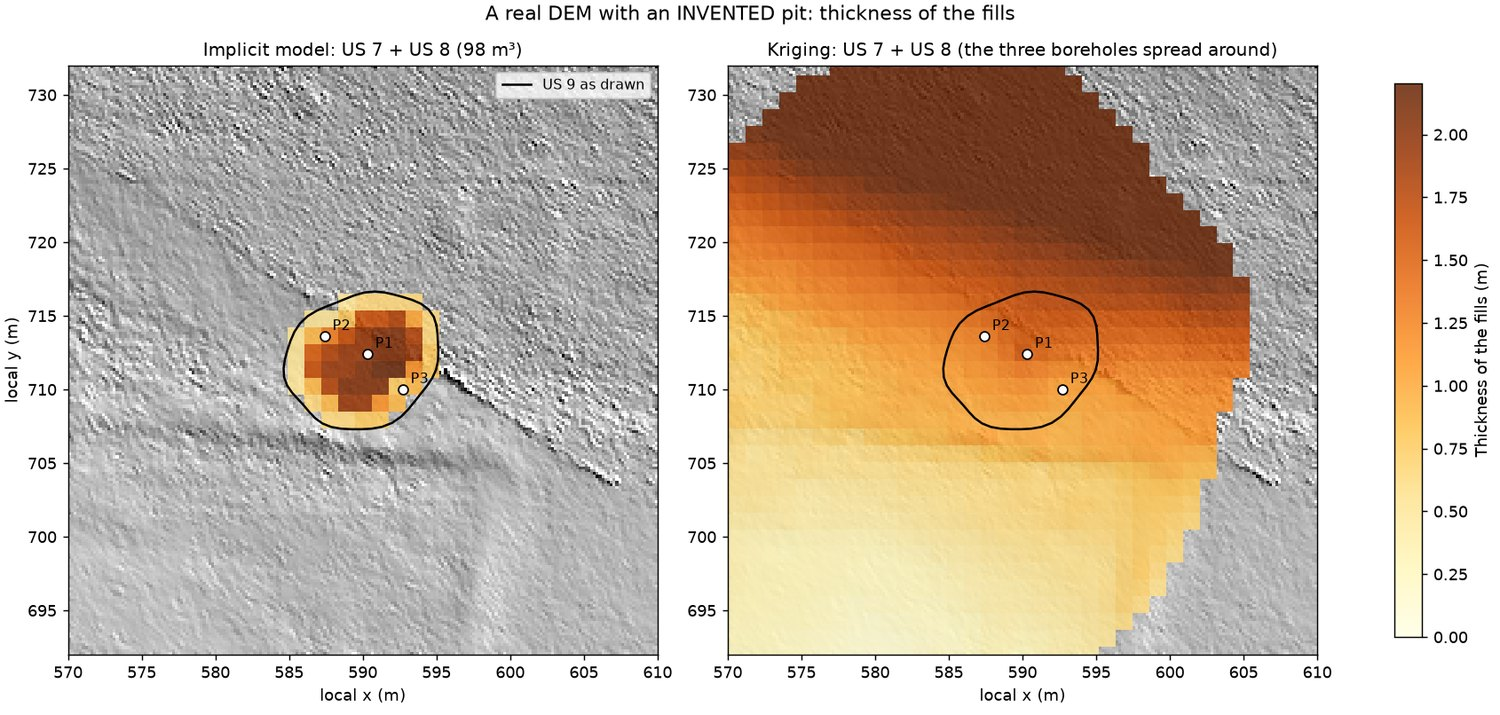
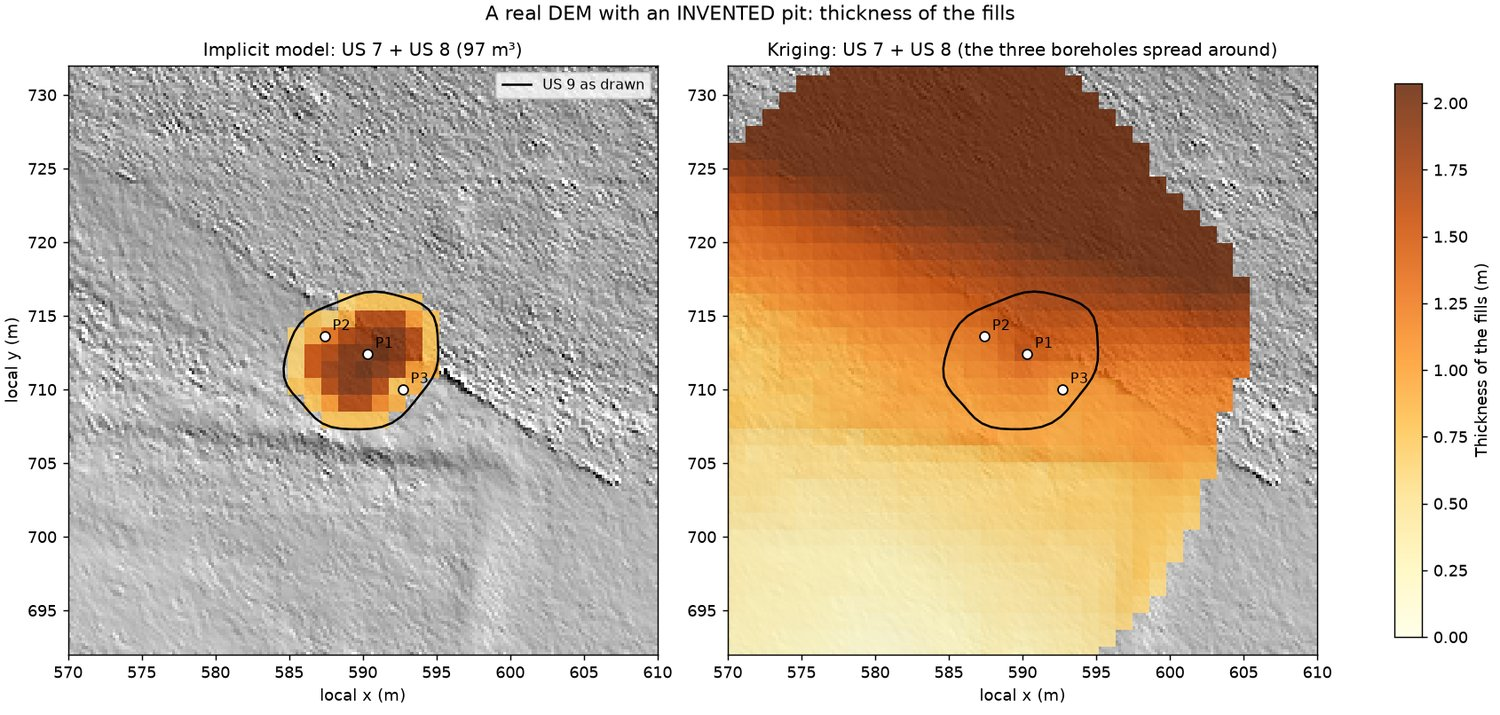
docs(plugins): Geoarchaeology 0.2.0 - a floor hangs from where the cut opens, rows by the edge, fills as a stack, the model against its logs, new warnings, numbers and figures of the new run

diff --git a/docs/plugins/geoarchaeology.it.md b/docs/plugins/geoarchaeology.it.md
@@ -701,7 +701,7 @@ richiesta, accanto al kriging, che resta il metodo predefinito. È una novità d
 | Il volume di un deposito semplice da riportare | **kriging** |
 
 Dopo ogni costruzione gli errori leave-one-out dei due metodi sono mostrati affiancati. Questi vengono dalla dimostrazione qui sotto: 21
-sondaggi su Tell Sultan, 18 senza la fossa. Il kriging lascia fuori un sondaggio alla volta e conta i sondaggi dove l'unità manca;
+sondaggi simulati sul DEM reale di Tell Sultan, 18 senza la fossa inventata. Il kriging lascia fuori un sondaggio alla volta e conta i sondaggi dove l'unità manca;
 il modello implicito lascia fuori 12 gruppi di sondaggi e conta quelli che vedono il contatto.
 
 | Contatto | Sondaggi che lo vedono | Senza fossa: kriging / implicito | Con la fossa: kriging / implicito |
@@ -760,12 +760,19 @@ per quota. *Per unità* lo cambia.
 Un taglio non ha materiale: nei log si vede il riempimento. Il taglio quindi non è uno strato né un campo: è un documento di scavo.
 
 * **La pianta** è la US disegnata per il taglio, o per i riempimenti. Senza disegno viene stimata, le celle più vicine ai sondaggi dentro che
-  a quelli fuori, con un avviso; nella dimostrazione ha dato 38-68 m³ per un riempimento di 76 m³.
-* **Il fondo** è `terreno - s(x, y) P(t)`: `t` la distanza dal bordo divisa per la mezza larghezza locale, `P` la forma scelta, `s` le
-  profondità misurate divise per P e distribuite sulla pianta. Passa per ogni base misurata. Fra i sondaggi è un'ipotesi.
+  a quelli fuori, con un avviso; nella dimostrazione ha dato 53-92 m³ per un riempimento di 76 m³.
+* **Il fondo** parte da dove il taglio si apre: `apertura - s(x, y) P(t)`. L'apertura è il terreno o, sotto una copertura, il tetto del riempimento più recente,
+  così una fossa sigillata conserva tutta la sua pianta. `t` è la distanza dal bordo divisa per la mezza larghezza locale, `P` la forma scelta, `s` le
+  profondità misurate divise per P e distribuite sulla pianta, con ogni sondaggio che pesa `P²`. Nessun fondo scende oltre la misura più profonda del suo taglio quando un
+  sondaggio sta lontano dal bordo. Fra i sondaggi è un'ipotesi.
+* **Vicino al bordo** (`t` sotto 0,25) una misura dice quanto è ripida la parete, non quanto scende il centro: resta fuori da `s` quando un'altra sta più
+  all'interno. Se è più profonda della forma, il fondo viene portato fino a lei intorno a quel sondaggio; se è meno profonda non viene usata. Così il fondo
+  passa per ogni base misurata, tranne quelle accanto al bordo meno profonde della forma (`base_near_edge`).
 * **I riempimenti** hanno i tetti come profondità sotto il terreno, distribuite dai sondaggi che li hanno visti: seguono il terreno salvo
   che i sondaggi dicano altro. Un riempimento più profondo resta sotto quello sopra. Uno strato può coprire la fossa, come l'humus
-  nella dimostrazione.
+  nella dimostrazione. **I riempimenti sono una pila, uno sull'altro**: riempimenti affiancati, linee di scarico, una lente vista in un sondaggio non sono modellati. Il totale del
+  taglio resta giusto, il volume di ciascun riempimento no, e `fill_thinned` lo dice quando un sondaggio ha registrato il doppio di quello che ha il modello.
+* **Le fosse che tagliano fosse** si leggono dai log: ogni riempimento resta con il suo taglio, e la fossa che sta più in alto in un sondaggio che le attraversa entrambe è la più recente.
 * **Un sottosquadro** (una fossa a campana, un fossato con un fianco aggettante) ha bisogno di misure sulla parete: righe di tipo `wall` nel file
   dei contatti. Solo un taglio così usa un campo di LoopStructural, e pochi punti lo cancellano: è stata provata solo una fossa a campana
   con punti di parete tutto intorno.
@@ -779,22 +786,22 @@ Un taglio non ha materiale: nei log si vede il riempimento. Il taglio quindi non
 ### Il volume di un taglio è un intervallo { #implicit-range }
 
 Pochi sondaggi non dicono la forma di un fondo. Per questo il plugin calcola il riempimento per tutte e tre le forme, e la riga del taglio in
-`volumi.csv`, nel pannello e nel testo dà l'intervallo; la forma scelta dà solo il valore in mezzo e il solido. **L'intervallo è del
-riempimento**: dal fondo al tetto del riempimento più recente, senza quello che lo copre. Il taglio vuoto, dal terreno, è nel registro come `cut_range`.
+`volumi.csv`, nel pannello e nel testo dà l'intervallo; la forma scelta dà il solido e quale valore dell'intervallo ha il modello, che può essere uno dei due estremi. **L'intervallo è del
+riempimento**: dal fondo al tetto del riempimento più recente, senza quello che lo copre. In `volumi.csv` il `volume_m3` della riga del taglio è vuoto, perché il volume sta nelle righe dei suoi riempimenti: la somma della colonna conta ogni fossa una volta.
 
 | Fossa inventata | Fondo piatto | A conca (scelta) | A V | Vero |
 |---|---:|---:|---:|---:|
-| Riempimento | 103,7 m³ | **98,3 m³** | 80,7 m³ | 76,4 m³ |
-| Taglio, dal terreno | 130,0 m³ | 124,2 m³ | 106,9 m³ | 103,8 m³ |
+| Riempimento | 118,2 m³ | **97,2 m³** | 79,4 m³ | 76,4 m³ |
 
-Il volume vero qui si conosce perché la fossa è inventata, con un fondo fra la V e la conca del plugin. Sta il 5 % *sotto* l'intervallo, e la conca è
-il 29 % di troppo: tre sondaggi quasi in fila dicono poco. L'intervallo dice quanto conta la forma; non contiene sempre il vero.
+Il volume vero qui si conosce perché la fossa è inventata, con un fondo fra la V e la conca del plugin. Sta il 4 % *sotto* l'intervallo, e la conca è
+il 27 % di troppo: tre sondaggi quasi in fila dicono poco. L'intervallo dice quanto conta la forma; non contiene sempre il vero.
 Lo restringono più sondaggi attraverso la fossa, con almeno uno vicino al centro.
 
 ### Che cosa vuol dire il volume di un riempimento { #implicit-fill }
 
 È lo spazio fra il fondo ipotizzato e il tetto del riempimento, dentro la pianta disegnata, nelle celle della griglia. Qui la pianta ha 58 celle da
-1,14 m, 75,5 m² contro 76,2 m² disegnati. Non è una quantità misurata di materiale: va dato come intervallo, con il numero dei sondaggi. Un
+1,14 m, 75,5 m² contro 76,2 m² disegnati. Non è una quantità misurata di materiale: va dato come intervallo, con il numero dei sondaggi. La pianta
+vale anche sotto una copertura: una fossa che si apre 1,5 m più in basso conserva tutta la sua pianta. Un
 fondo misurato solo accanto al bordo non dice nulla del centro (`floor_unmeasured`), e allora il volume è un'ipotesi, qualunque sia l'intervallo.
 
 <figure markdown="span">
@@ -813,19 +820,33 @@ modello. Nella dimostrazione US 3, vista in 5 sondaggi su 21, copre 10.368 m² c
 
 `volumi.csv` ha `kriging_m3` e `same_cells_m3`: il volume di ciascun metodo sulle celle che hanno entrambi. Il kriging si ferma al margine intorno ai
 sondaggi, il modello implicito copre ogni cella con il DEM sulla sua griglia, quindi `volume_m3` copre di più; confronta `same_cells_m3` con `kriging_m3`, come fa il
-riepilogo. Sui 73.834 m² della dimostrazione:
+riepilogo. Sui 73.834 m² della dimostrazione (sondaggi simulati, fossa inventata):
 
 | Unità | Kriging | Implicito, stesse celle | Implicito, tutto (`volume_m3`) |
 |---|---:|---:|---:|
 | US 1 | 22.974 m³ | 21.981 m³ | 28.321 m³ |
-| US 2 | 75.705 m³ | 93.071 m³ | 117.297 m³ |
+| US 2 | 75.705 m³ | 93.068 m³ | 117.294 m³ |
 | US 3, rara | 25.341 m³ | 20.466 m³ | 20.466 m³ |
 | US 4 | 181.703 m³ | 167.112 m³ | 167.133 m³ |
-| US 5, fino alla base del modello | 263.288 m³ | 268.203 m³ | 371.841 m³ |
+| US 5, fino alla base del modello | 263.288 m³ | 268.208 m³ | 371.845 m³ |
 
-Tutto il deposito sopra il naturale differisce dell'1 % (305.723 contro 302.630 m³), le singole unità fino al 23 %: dove US 3 non c'è, il suo spazio passa a US 2, che è il
+Tutto il deposito sopra il naturale differisce dell'1 % (305.723 contro 302.627 m³), le singole unità fino al 23 %: dove US 3 non c'è, il suo spazio passa a US 2, che è il
 23 % sopra il kriging, US 3 il 19 % sotto, US 4 l'8 % sotto. Fidati del volume del deposito prima che di quelli delle
-sue unità, e dell'errore leave-one-out per dov'è un contatto dove esiste, non per fin dove arriva l'unità.
+sue unità.
+
+**Leggi insieme i due numeri.** Dopo ogni costruzione il riepilogo dà il leave-one-out di un contatto e, per ogni unità, il modello contro i log ai suoi stessi sondaggi
+(`rmse`, massimo). Rispondono a due domande: quanto bene i dati dicono un contatto dove manca un sondaggio, e se il modello tiene i sondaggi che ha. Un leave-one-out basso da solo
+nasconde un modello che si è staccato dai log: in una prova con una lente spessa 1,2 m in 8 sondaggi su 25 il modello la aveva in media a 0,09 m, e il
+leave-one-out di quell'unità era 0,00 m. Nella dimostrazione:
+
+| Contatto | Sondaggi | Modello contro log: rmse / massimo |
+|---|---:|---:|
+| US 1 | 21 | 0,08 / 0,19 m |
+| US 7, US 8 | 3 | 0,01 / 0,02 m |
+| US 2 | 16 | 0,07 / 0,18 m |
+| US 3 | 5 | 0,17 / 0,34 m |
+| US 4 | 12 | **1,35 / 4,36 m** |
+| US 5 | 16 | 0,02 / 0,07 m |
 
 <figure markdown="span">
   ![I solidi attorno alla fossa, tagliati lungo la sezione](../img/plugins/geoarchaeology/implicit-solids.jpg)
@@ -845,7 +866,8 @@ US 3;588,20;741,50;286,15;
 US 9;591,00;713,00;285,10;parete
 ```
 
-Il tipo è vuoto, oppure `wall` (`parete`, `muro`, `side`) per un punto della parete di un taglio. Un contatto di un taglio è un punto del suo fondo.
+Il tipo è vuoto, oppure `wall` (`parete`, `muro`, `side`) per un punto della parete di un taglio. Un contatto di un taglio è un punto del suo fondo, e così una quota con la sua US. Una quota presa sul bordo di un taglio
+non è un punto del suo fondo: resta fuori, e `base_near_edge` dice quante sono.
 
 **Giaciture**: un'inclinazione misurata.
 
@@ -869,7 +891,11 @@ lo hanno spostato solo di una frazione. Per cambiare la forma di un contatto ser
 |---|---|---|
 | *nessuno ha disegnato il contorno* | la pianta è stimata, il volume può essere sopra o sotto | disegna la US del taglio |
 | *tutti i sondaggi sono vicino al bordo* (`floor_unmeasured`) | la profondità del fondo non è stata misurata | un sondaggio vicino al centro; fino ad allora il volume è un'ipotesi |
-| *misure del fondo vicino al bordo non vengono raggiunte* | una misura profonda sul bordo scaverebbe troppo al centro | controlla quel sondaggio e il contorno |
+| *misure del fondo vicino al bordo non sono usate* (`base_near_edge`) | il bordo non dice quanto scende il centro; una quota sul bordo resta fuori | nulla per una quota sul bordo; per un sondaggio, controlla lui e il contorno |
+| *il fondo arriva a ... m, la misura più profonda è ... m* (`floor_past_measure`) | con tutte le misure sul bordo nulla ferma il fondo | un sondaggio vicino al centro |
+| *parti separate del contorno non hanno alcuna misura del fondo* (`plan_part_unmeasured`) | la loro profondità viene da sondaggi lontani | un sondaggio in ogni parte, o un taglio per ciascuna |
+| *nel sondaggio ... i log danno ... m, il modello ... m* (`fill_thinned`) | i riempimenti sono una pila, e questo ha perso il suo posto | leggi i volumi dei riempimenti come uno solo; dai i riempimenti affiancati come una sola unità |
+| *il modello passa lontano dai log dei suoi stessi sondaggi* (`logs_missed`) | rmse sopra 0,25 m o due voxel; il leave-one-out da solo non lo mostra | una serie per profondità o per quota per quell'unità, e non citare il suo volume da solo |
 | *una misura del fondo ... è fuori dal contorno* | vale come se fosse sul bordo | controlla la posizione del sondaggio, o il disegno |
 | *il contorno è largo solo ... m* | la cella è troppo grande per quella forma | costruisci con la cella indicata |
 | *il contorno disegnato misura ..., sulla griglia ne restano ...* | esce dalla griglia, o la cella è grande | una cella più piccola, o superfici con un margine più grande |
@@ -885,11 +911,13 @@ lo hanno spostato solo di una frazione. Per cambiare la forma di un contatto ser
 ### Limiti { #implicit-limits }
 
 * **Le strozzature non vengono segnalate.** Una strozzatura sotto il 5 % della pianta non dà avviso (1,2 m in un fossato di 6 m con celle da 1 m): guarda la pianta.
-* **Un contatto non viene rispettato esattamente**, come sopra: un campo liscio ci si appoggia.
+* **Un contatto non viene rispettato esattamente**, come sopra: un campo liscio ci si appoggia. Nella dimostrazione il tetto di US 4 resta a 1,35 m dai suoi log (rmse), 4,36 m nel caso peggiore.
+* **I riempimenti sono una pila**: riempimenti affiancati e linee di scarico non sono modellati, solo la loro somma.
 * **Un bordo stimato è grossolano**, nei due sensi: +125 % e -54 % nelle prove.
 * **Un fondo misurato solo al bordo** (`floor_unmeasured`) non è una misura del centro: un sondaggio sul bordo di una conca ha dato meno di un terzo del volume.
 * **Un'unità rara finisce con un bordo verticale** a metà fra i sondaggi, come nel kriging, e gli strati intorno si dividono il suo spazio in modo diseguale, come sopra.
-* **La forma del fondo è ipotizzata.** Un fondo piatto viene arrotondato nel primo quarto della mezza larghezza: una parete davvero verticale sta fuori dall'intervallo.
+* **La forma del fondo è ipotizzata.** Un fondo piatto viene arrotondato nel primo quarto della mezza larghezza: una parete davvero verticale sta fuori dall'intervallo, il 16 % sopra il
+  fondo piatto in una fossa di raggio 8. Un sondaggio al centro di una fossa così, con la conca scelta, dà il 40 % meno del vero: nulla dice che la parete è ripida.
 * **La griglia**: al massimo 120.000 celle e 200 livelli di base. Una fossa deve essere larga almeno diverse celle; qui 9 celle, voxel da 0,13 m.
 * **Non fatto**: faglie, pieghe, intrusioni, modifica a mano del modello, insiemi di modelli.
 

diff --git a/docs/plugins/geoarchaeology.md b/docs/plugins/geoarchaeology.md
@@ -693,8 +693,8 @@ the kriging, which stays the default. It is new in version 0.2.0.
 | A dip measured on a section, contacts seen on a wall | **implicit**: kriging cannot use them |
 | A volume of a plain deposit to report | **kriging** |
 
-The leave-one-out errors of both are shown side by side after each build. These are from the demonstration below: 21 boreholes on
-Tell Sultan, 18 of them without a pit. Kriging leaves out one borehole at a time and counts the boreholes where the
+The leave-one-out errors of both are shown side by side after each build. These are from the demonstration below: 21 simulated boreholes on
+Tell Sultan's real DEM, 18 of them without the invented pit. Kriging leaves out one borehole at a time and counts the boreholes where the
 unit is missing; the implicit model leaves out 12 groups of boreholes and counts those that see the contact.
 
 | Contact | Boreholes that see it | Without the pit: kriging / implicit | With the pit: kriging / implicit |
@@ -753,12 +753,19 @@ elevation. *By unit* changes it.
 A cut has no material: the logs show its fill. So the cut is not a layer, nor a field: it is an excavation record.
 
 * **The plan** is the US drawn for the cut, or for its fills. Without a drawing it is estimated, the cells nearer to the boreholes
-  inside than to those outside, with a warning; in the demonstration this gave 38-68 m³ for a fill of 76 m³.
-* **The floor** is `ground - s(x, y) P(t)`: `t` the distance from the edge over the local half width, `P` the shape chosen, `s` the
-  measured depths divided by P and spread over the plan. It passes through every base measured. Between the boreholes it is an assumption.
+  inside than to those outside, with a warning; in the demonstration this gave 53-92 m³ for a fill of 76 m³.
+* **The floor** hangs from where the cut opens: `opening - s(x, y) P(t)`. The opening is the ground, or under a cover the top of the youngest fill,
+  so a sealed pit keeps its whole plan. `t` is the distance from the edge over the local half width, `P` the shape chosen, `s` the
+  measured depths divided by P and spread over the plan, a borehole weighing `P²`. No floor goes deeper than the deepest measure of its cut when a
+  borehole stands away from the edge. Between the boreholes it is an assumption.
+* **Near the edge** (`t` under 0.25) a measure tells how steep the wall is, not how deep the middle goes: it is left out of `s` when another one stands
+  further in. If it is deeper than the shape, the floor is brought down to it around that borehole; if it is shallower it is not used. So the floor
+  passes through every base measured, except those shallower than the shape next to the edge (`base_near_edge`).
 * **The fills** have tops as depths under the ground, spread from the boreholes that saw them: they follow the ground unless
   the boreholes say otherwise. A deeper fill stays under the one above it. A layer can cover the pit, as the topsoil does
-  in the demonstration.
+  in the demonstration. **Fills are a stack, one over the other**: fills side by side, tip lines, a lens seen in one borehole are not modelled. The total of the
+  cut stays right, the volume of each fill does not, and `fill_thinned` says so when a borehole logged twice what the model has.
+* **Pits that cut pits** are read from the logs: each fill stays with its cut, and the pit seen higher in a borehole through both is the younger.
 * **An undercut** (a bottle pit, a ditch with an overhanging side) needs measures on the wall: rows of the kind `wall` in the contacts file.
   Only such a cut uses a field of LoopStructural, and few points smooth it away: only a bottle pit with wall points all round has been tried.
 
@@ -771,22 +778,22 @@ A cut has no material: the logs show its fill. So the cut is not a layer, nor a 
 ### The volume of a cut is a range { #implicit-range }
 
 A few boreholes cannot tell the shape of a floor. So the plugin computes the fill for all three shapes, and the row of the cut in
-`volumi.csv`, the pane and the text gives the range; the chosen shape only sets the value in the middle and the solid. **The range is of
-the fill**: from the floor up to the top of the youngest fill, without what covers it. The empty cut, from the ground, is in the registry as `cut_range`.
+`volumi.csv`, the pane and the text gives the range; the chosen shape sets the solid and which value of the range the model has, which can be one of its ends. **The range is of
+the fill**: from the floor up to the top of the youngest fill, without what covers it. In `volumi.csv` the `volume_m3` of the row of the cut is empty, the volume being in the rows of its fills: a sum of the column counts each pit once.
 
 | Invented pit | Flat floor | Bowl (chosen) | V | True |
 |---|---:|---:|---:|---:|
-| Fill | 103.7 m³ | **98.3 m³** | 80.7 m³ | 76.4 m³ |
-| Cut, from the ground | 130.0 m³ | 124.2 m³ | 106.9 m³ | 103.8 m³ |
+| Fill | 118.2 m³ | **97.2 m³** | 79.4 m³ | 76.4 m³ |
 
-The true volume is known here because the pit is invented, with a floor between the V and the bowl of the plugin. It lies 5 % *below*
-the range, and the bowl is 29 % too much: three boreholes nearly in a line say little. The range tells how much the
+The true volume is known here because the pit is invented, with a floor between the V and the bowl of the plugin. It lies 4 % *below*
+the range, and the bowl is 27 % too much: three boreholes nearly in a line say little. The range tells how much the
 shape matters; it does not always hold the truth. More boreholes across the pit, and at least one near the middle, are what narrows it.
 
 ### What a fill volume means { #implicit-fill }
 
 It is the space between the assumed floor and the top of the fill, within the drawn plan, in the cells of the grid. Here the plan has 58 cells of
-1.14 m, 75.5 m² against 76.2 m² drawn. It is not a measured amount of material: give it as a range, with the number of boreholes. A floor
+1.14 m, 75.5 m² against 76.2 m² drawn. It is not a measured amount of material: give it as a range, with the number of boreholes. The plan
+holds the fill under a cover as well: a pit opening 1.5 m down keeps all of its plan. A floor
 measured only beside the edge says nothing of the middle (`floor_unmeasured`), and then the volume is a guess whatever the range says.
 
 <figure markdown="span">
@@ -805,19 +812,32 @@ working of the model. In the demonstration US 3, seen in 5 boreholes of 21, cove
 
 `volumi.csv` has `kriging_m3` and `same_cells_m3`: the volume of each method on the cells both have. The kriging stops at the margin around the
 boreholes, the implicit model covers every cell with a DEM on its grid, so `volume_m3` covers more; compare `same_cells_m3` with `kriging_m3`, as the summary does. On the
-73,834 m² of the demonstration:
+73,834 m² of the demonstration (simulated boreholes, an invented pit):
 
 | Unit | Kriging | Implicit, same cells | Implicit, all of it (`volume_m3`) |
 |---|---:|---:|---:|
 | US 1 | 22,974 m³ | 21,981 m³ | 28,321 m³ |
-| US 2 | 75,705 m³ | 93,071 m³ | 117,297 m³ |
+| US 2 | 75,705 m³ | 93,068 m³ | 117,294 m³ |
 | US 3, rare | 25,341 m³ | 20,466 m³ | 20,466 m³ |
 | US 4 | 181,703 m³ | 167,112 m³ | 167,133 m³ |
-| US 5, down to the base of the model | 263,288 m³ | 268,203 m³ | 371,841 m³ |
+| US 5, down to the base of the model | 263,288 m³ | 268,208 m³ | 371,845 m³ |
 
-The whole deposit above the natural differs by 1 % (305,723 against 302,630 m³), single units by up to 23 %: where US 3 is not, US 2 takes its space, and it is 23 % over the
-kriging, US 3 19 % under, US 4 8 % under. Trust the volume of the deposit before those of its units, and a leave-one-out error
-for where a contact is where it exists, not for how far the unit goes.
+The whole deposit above the natural differs by 1 % (305,723 against 302,627 m³), single units by up to 23 %: where US 3 is not, US 2 takes its space, and it is 23 % over the
+kriging, US 3 19 % under, US 4 8 % under. Trust the volume of the deposit before those of its units.
+
+**Trust the two figures together.** After each build the summary gives the leave-one-out of a contact and, for every unit, the model against the logs at its own boreholes
+(`rmse`, maximum). They answer two questions: how well the data tell a contact where a borehole is missing, and whether the model keeps the boreholes it has. A low leave-one-out alone
+hides a model that left its logs: in a test with a lens 1.2 m thick in 8 boreholes of 25 the model had it at 0.09 m on average, and the
+leave-one-out of that unit was 0.00 m. In the demonstration:
+
+| Contact | Boreholes | Model against logs: rmse / maximum |
+|---|---:|---:|
+| US 1 | 21 | 0.08 / 0.19 m |
+| US 7, US 8 | 3 | 0.01 / 0.02 m |
+| US 2 | 16 | 0.07 / 0.18 m |
+| US 3 | 5 | 0.17 / 0.34 m |
+| US 4 | 12 | **1.35 / 4.36 m** |
+| US 5 | 16 | 0.02 / 0.07 m |
 
 <figure markdown="span">
   ![The solids around the pit, cut along the section](../img/plugins/geoarchaeology/implicit-solids.jpg)
@@ -837,7 +857,8 @@ US 3;588,20;741,50;286,15;
 US 9;591,00;713,00;285,10;parete
 ```
 
-The kind is empty, or `wall` (`parete`, `muro`, `side`) for a point of the wall of a cut. A contact of a cut is a point of its floor.
+The kind is empty, or `wall` (`parete`, `muro`, `side`) for a point of the wall of a cut. A contact of a cut is a point of its floor, and so is a spot height with its US. A height taken on the edge of a cut
+is not a point of its floor: it is left out, and `base_near_edge` says how many.
 
 **Orientations**: a dip measured.
 
@@ -861,7 +882,11 @@ a fraction of that. To change the shape of a contact, give it several points or 
 |---|---|---|
 | *nobody drew the outline* | the plan is estimated, the volume may be over or under | draw the US of the cut |
 | *all the boreholes are near the edge* (`floor_unmeasured`) | the depth of the floor was not measured | a borehole near the middle; until then the volume is a guess |
-| *measures of the floor next to the edge are not reached* | a deep measure on a rim would dig too much in the middle | check that borehole and the outline |
+| *measures of the floor next to the edge were not used* (`base_near_edge`) | the edge does not tell how deep the middle goes; a height on the edge is left out | nothing for a height on the edge; for a borehole, check it and the outline |
+| *the floor reaches ... m, the deepest measure is ... m* (`floor_past_measure`) | with all measures by the edge nothing stops the floor | a borehole near the middle |
+| *separate parts of the outline have no measure of the floor* (`plan_part_unmeasured`) | their depth comes from boreholes far away | a borehole in each part, or a cut for each |
+| *in borehole ... the logs give ... m, the model ... m* (`fill_thinned`) | fills are a stack, and this one has lost its place | read the fill volumes as one; give the fills side by side as one unit |
+| *the model passes far from the logs of its own boreholes* (`logs_missed`) | rmse over 0.25 m or two voxels; leave-one-out alone does not show it | a series by depth or by elevation for that unit, and do not quote its volume alone |
 | *a measure of the floor ... is outside the outline* | it counts as if on the edge | check the position of the borehole, or the drawing |
 | *the outline is only ... m wide* | the cell is too large for that shape | build with the cell it gives |
 | *the outline measures ..., ... are left on the grid* | it leaves the grid, or the cell is large for it | a smaller cell, or surfaces with a larger margin |
@@ -877,11 +902,13 @@ a fraction of that. To change the shape of a contact, give it several points or 
 ### Limits { #implicit-limits }
 
 * **Narrow necks are not warned.** A neck under 5 % of the plan gives no warning (a 1.2 m neck in a 6 m ditch with a 1 m cell): look at the plan.
-* **A contact is not honoured exactly**, as above: a smooth field leans on it.
+* **A contact is not honoured exactly**, as above: a smooth field leans on it. In the demonstration the top of US 4 stays 1.35 m from its logs (rmse), 4.36 m at worst.
+* **Fills are a stack**: fills side by side and tip lines are not modelled, only their sum is.
 * **An estimated edge is rough**, either way: +125 % and -54 % in tests.
 * **A floor measured at the edge only** (`floor_unmeasured`) is not a measure of the middle: a borehole at the rim of a bowl gave less than a third of the volume.
 * **A rare unit ends at a vertical edge** halfway between the boreholes, as in the kriging, and the layers around it share out its space unevenly, as above.
-* **The shape of a floor is assumed.** A flat floor comes out rounded at the first quarter of its half width: a truly vertical wall is outside the range.
+* **The shape of a floor is assumed.** A flat floor comes out rounded at the first quarter of its half width: a truly vertical wall is outside the range, 16 % over the
+  flat floor on a pit of radius 8. One borehole in the middle of such a pit, with the bowl chosen, gives 40 % less than the truth: nothing says that the wall is steep.
 * **The grid**: at most 120,000 cells and 200 levels by default. A pit should be at least several cells wide; here 9 cells, voxels of 0.13 m.
 * **Not done**: faults, folds, intrusions, editing the model by hand, ensembles.
 
